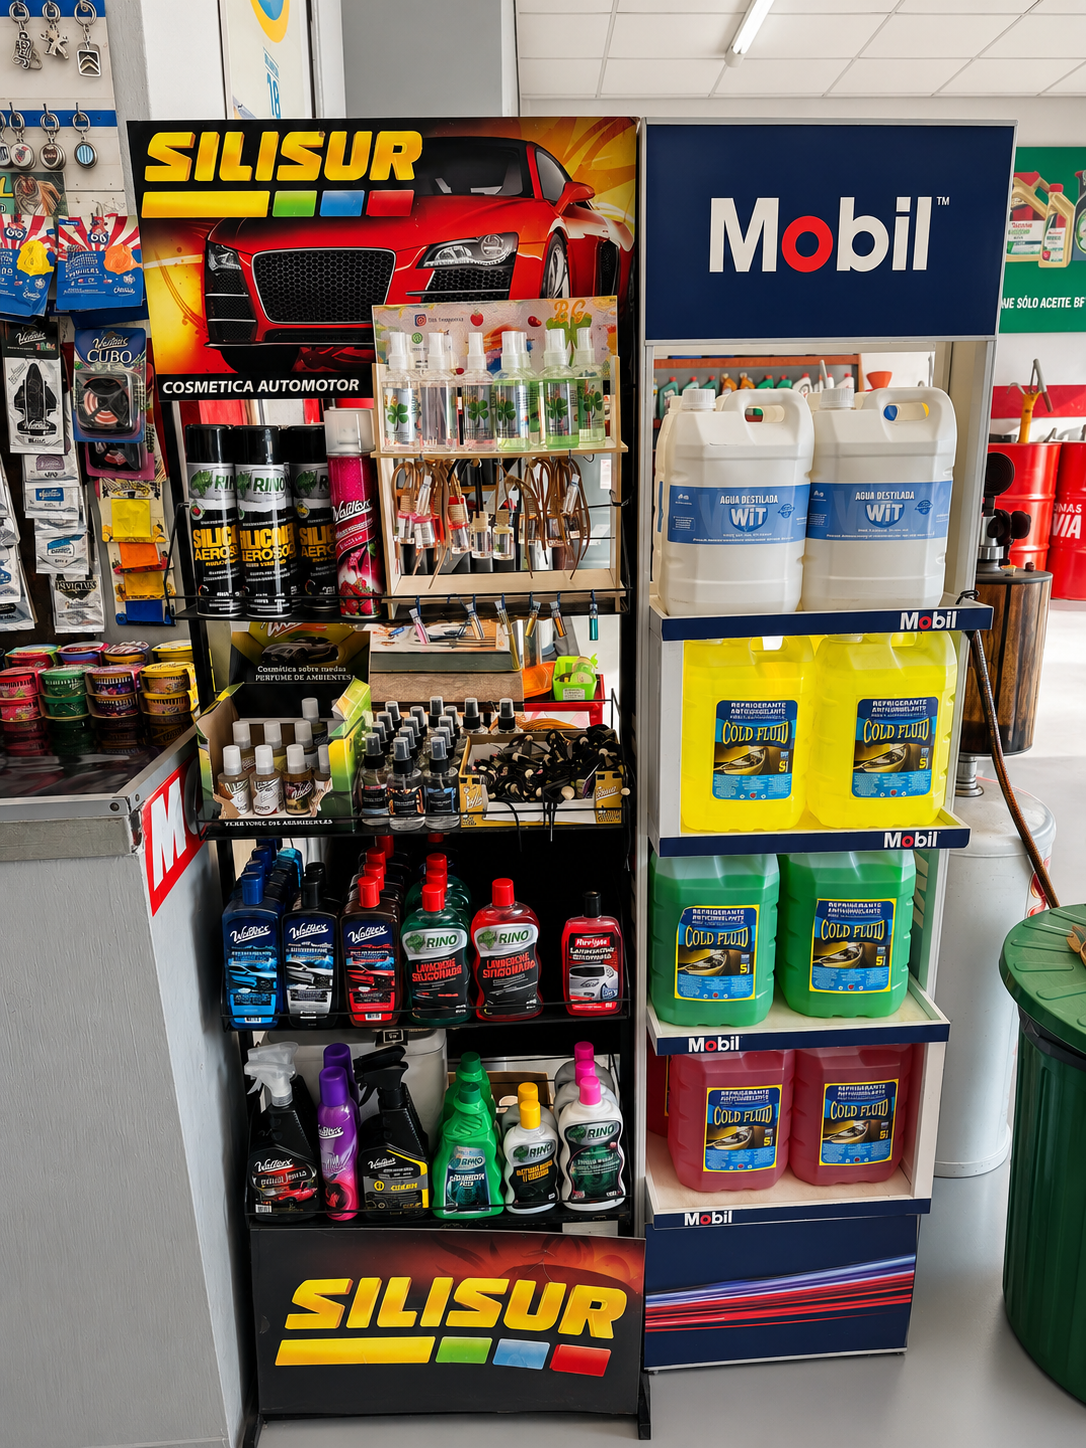
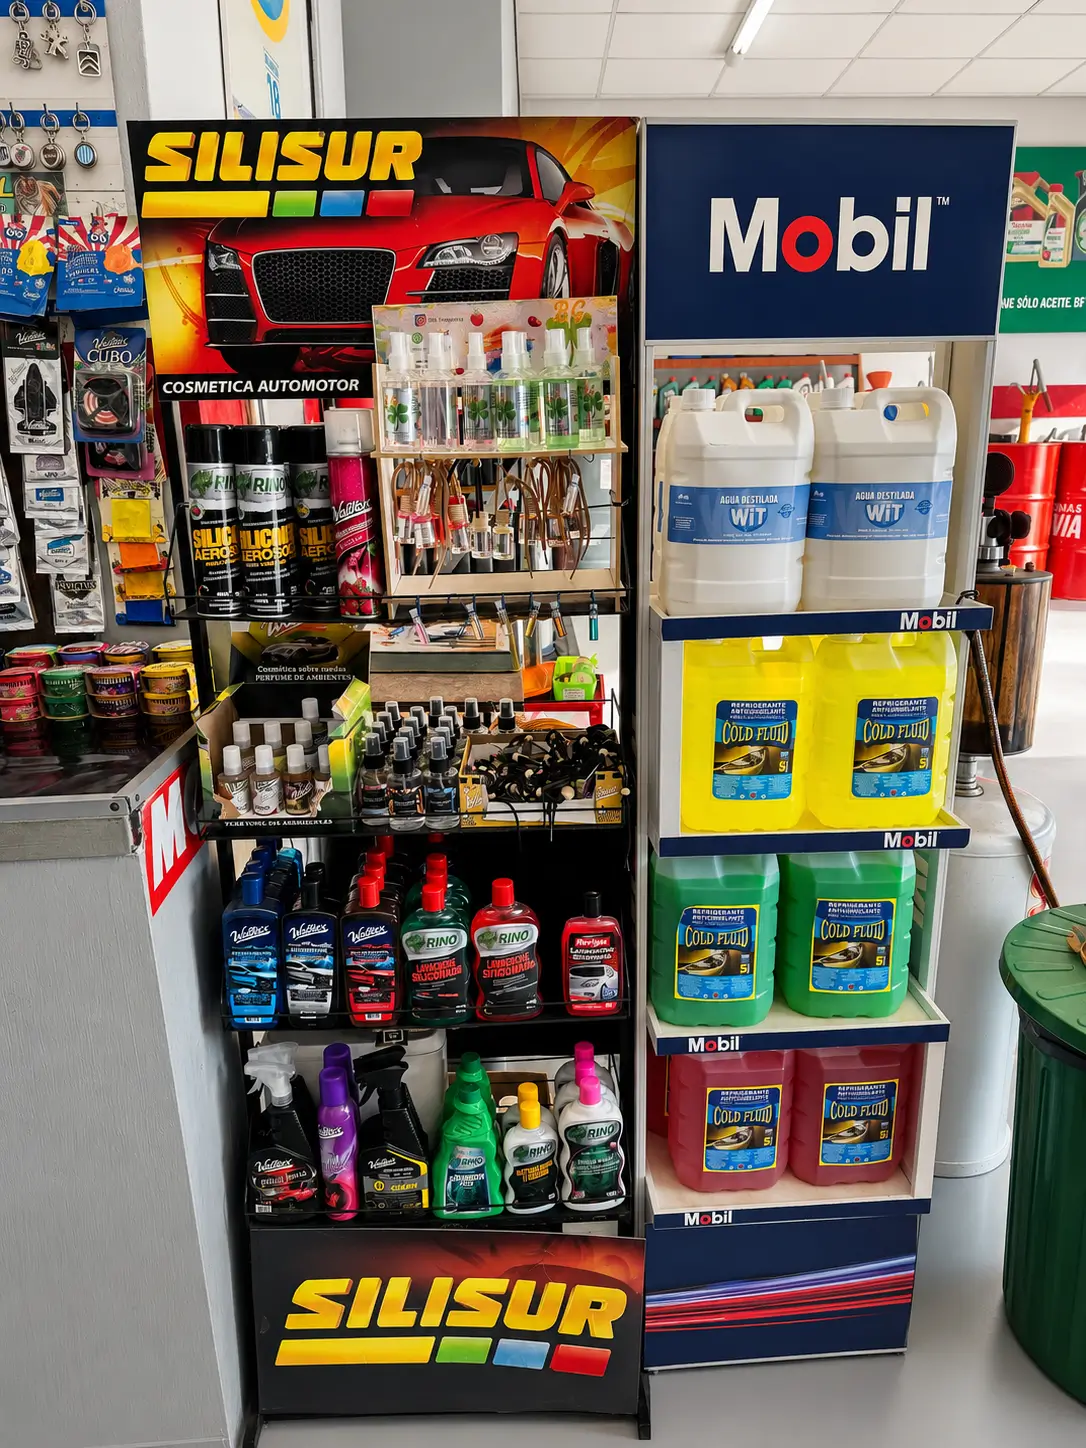
comprimiendo imagenes

diff --git a/pages/nosotros.html b/pages/nosotros.html
@@ -243,7 +243,7 @@
                 <div class="carousel-inner">
                   <div class="carousel-item active">
                     <img
-                      src="../img/lubri-abierto-ia.png"
+                      src="../img/lubri-abierto-ia.webp"
                       class="img-fluid"
                       loading="lazy"
                       alt="Lubricentro O'Higgins - exterior"

diff --git a/index.html b/index.html
@@ -381,7 +381,7 @@
           <div class="col-lg-6 order-1 order-lg-2" data-animate="fade-left">
             <div class="about-img-wrapper">
               <img
-                src="./img/lubri-abierto-ia.png"
+                src="./img/lubri-abierto-ia.webp"
                 class="img-fluid rounded-4 img-shadow"
                 loading="lazy"
                 alt="Lubricentro O'Higgins"
